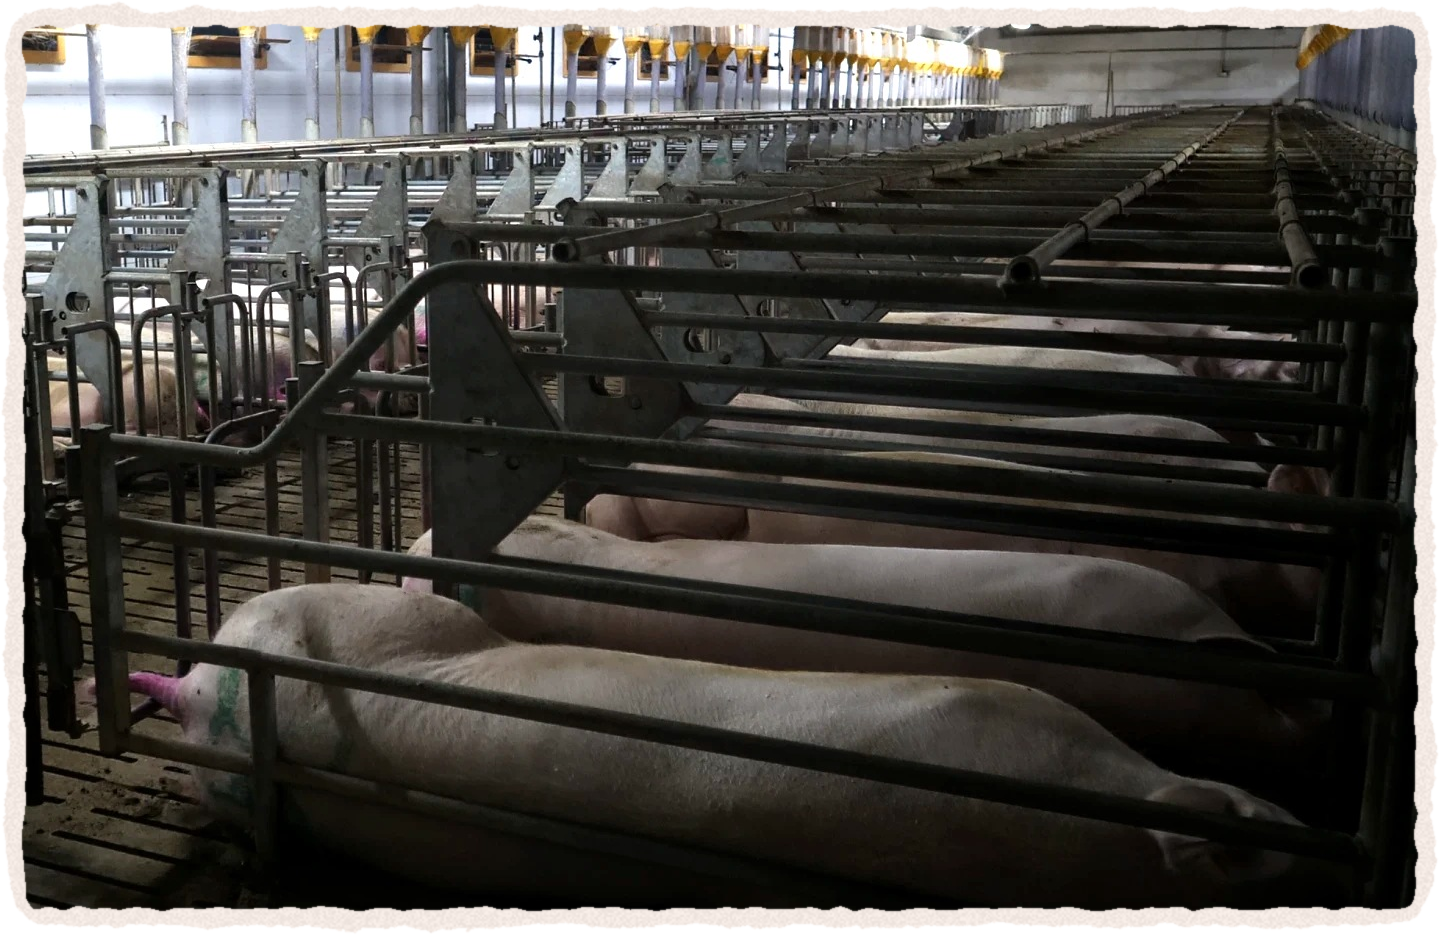
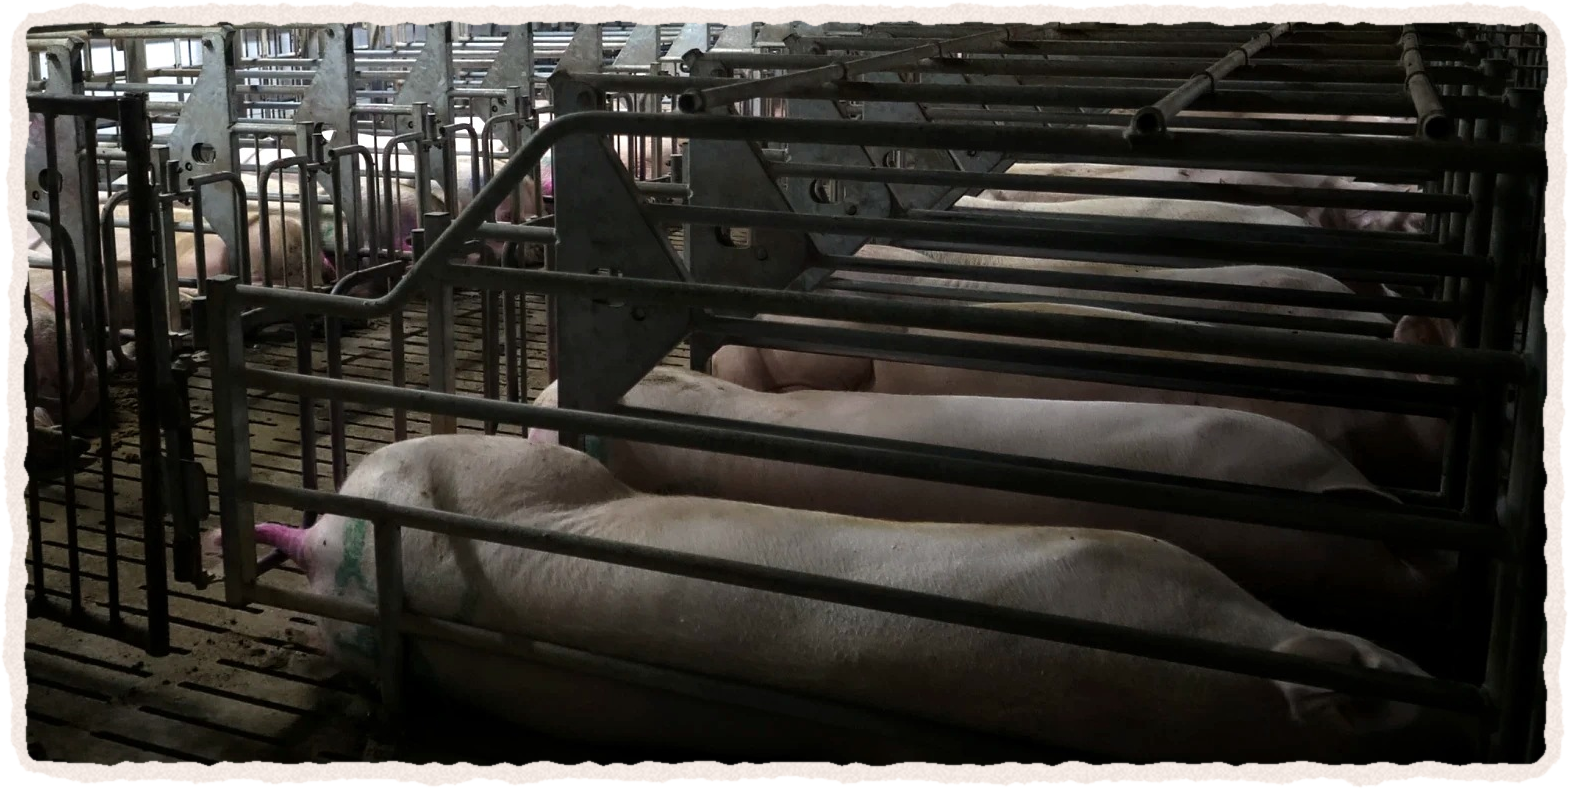
kpz-planeta: hook – kompromis (velký text na 4 řádky, středně velká fotka s bližším výřezem)
Claude-Session: https://claude.ai/code/session_01WHgTJn12JFPBUAxrrjpqGs

diff --git a/scenes/kpz-planeta/karusel.html b/scenes/kpz-planeta/karusel.html
@@ -31,19 +31,19 @@
 <body class="kpz">
 <div id="stage">
 
-  <!-- 1 · HOOK (návrh KPZ č. 3): čistě lákací první slajd + šipka na další slajdy; fotka KPZ prasnice v klecích (velká, ať je pochopitelná) -->
+  <!-- 1 · HOOK (návrh KPZ č. 3): kompromis mezi 1. verzí (velký text na 4 řádky, nízká fotka) a 2. verzí (malý text, vysoká fotka) -->
   <div class="layer" id="s-hook">
-    <div class="stk" style="left:880px; top:46px; width:150px" data-stk="sprig"></div>
-    <div class="abs h1 kblocks print" style="left:66px; top:222px; font-size:96px">
-      <span class="kb">Krmíme zvířata jídlem.</span><br><span class="kb cream">A pak máme</span> <span class="kb orange">jídla míň.</span>
+    <div class="stk" style="left:868px; top:50px; width:160px" data-stk="sprig"></div>
+    <div class="abs h1 kblocks print" style="left:66px; top:172px; font-size:104px">
+      <span class="kb">Krmíme zvířata</span><br><span class="kb">jídlem.</span><br><span class="kb cream">A pak máme</span><br><span class="kb orange">jídla míň.</span>
     </div>
     <svg class="abs" style="left:0; top:0" width="1080" height="1350">
       <g filter="url(#kpz-brush)" stroke="var(--kpz-navy)" stroke-width="22" stroke-linecap="round" fill="none">
-        <path d="M700,540 C770,528 840,532 916,542"/>
+        <path d="M580,688 C660,676 740,680 830,690"/>
       </g>
-      <path d="M902,500 L992,546 L898,590 Z" fill="var(--kpz-navy)" filter="url(#kpz-brush)"/>
+      <path d="M816,646 L908,692 L812,738 Z" fill="var(--kpz-navy)" filter="url(#kpz-brush)"/>
     </svg>
-    <div class="kpz-cut" style="left:26px; top:612px; width:1028px"><img src="assets/foto-kpz/vystrizky/prasnice-klece-hook.png" alt=""><div class="abs ilu" style="right:58px; bottom:50px">Ilustrační záběr</div></div>
+    <div class="kpz-cut" style="left:30px; top:786px; width:1020px"><img src="assets/foto-kpz/vystrizky/prasnice-klece-hook.png" alt=""><div class="abs ilu" style="right:58px; bottom:50px">Ilustrační záběr</div></div>
   </div>
 
   <!-- 2 · půda → jídlo pro méně zkušené (Poore & Nemecek 2018): 10 polí (83 % → 8, 17 % → 2) → 10 talířů (18 % → 2, 82 % → 8) -->

diff --git a/.claude/skills/vox-animation/FEEDBACK.md b/.claude/skills/vox-animation/FEEDBACK.md
@@ -1,6 +1,6 @@
 # Feedback & vývoj skillu
 
-**Verze skillu: 0.31.1**
+**Verze skillu: 0.31.2**
 
 Tento soubor je paměť skillu. Pravidla níže mají **přednost** před
 `references/style-guide.md`. Postup zápisu je v `SKILL.md` → „Smyčka zpětné vazby“.
@@ -178,3 +178,4 @@ Pravidla specifická pro organizaci KPZ (obsah, tón, slovník) jsou v
 | 2026-11-20 | 0.30.0 | kpz-planeta | „Nepoužívejme výraz ‚Jídla ale dají‘, oni ho nedávají, ten život jim vezmou. Nepoužívejme tento využívatelský slovník.“ | Obálka „Chov zvířat zabírá 8 polí z 10. Na talíře z nich ale přijdou necelé 2 z 10.“; 2. slajd „tvoří jen 18 % kalorií“; 8. slajd „I ten „nejšetrnější“ chov zvířat…“ (+ štítek); 5. slajd zdroj „ne počet zvířat“ (místo „kusů“); popisek; slovník KPZ doplněn. Pravidlo [obsah]. |
 | 2026-11-20 | 0.31.0 | kpz-planeta | „Odděláme jeden slide a místo toho vymyslíme jeden čistě lákací na začátek… aby to zajímalo vegany a nasralo zemědělce… zkus návrhy“ → 5 návrhů → „Trojka… šipka doprava… fotka prasat v individuálních klecích. Uvidíš sám.“ | Nový 1. slajd „Krmíme zvířata jídlem. A pak máme jídla míň.“ + štětcová šipka → + prasnice v klecích (širší výřez) + snítka; vyřazena biomasa 30× (fotka by se opakovala, nejmíň souvisí s jídlem); z bývalé obálky pryč „Proč? Listuj“; popisek v3 bez Greenspoon. Pravidlo [struktura] o hooku. |
 | 2026-11-20 | 0.31.1 | kpz-planeta | „Ten obrázek udělej větší. Není vůbec pochopitelný, o co jde. Tím nějak musíš naňahňat ten text.“ | Hook: nadpis na 2 řádky (96 px), šipka mezi textem a fotkou, fotka přes celou šířku a ~650 px na výšku, bližší výřez (prasnice v úzké kleci + řada klecí a krmítek). Poučení: na hooku fotka aspoň polovina výšky slajdu a výřez na zvíře, ne na halu – jinak „není pochopitelné, o co jde“. |
+| 2026-11-20 | 0.31.2 | kpz-planeta | „Teď už se mi to nelíbí. Zkus nějakej kompromis mezi tím.“ | Hook: zpět velký text na 4 řádky (104 px) se šipkou vedle „jídla míň.“; fotka přes celou šířku ~490 px vysoká (mezi 390 a 650), bližší výřez na prasnici v kleci. Poučení: u velkých změn rozložení obálky dělat menší kroky (nebo poslat 2 varianty vedle sebe). |
